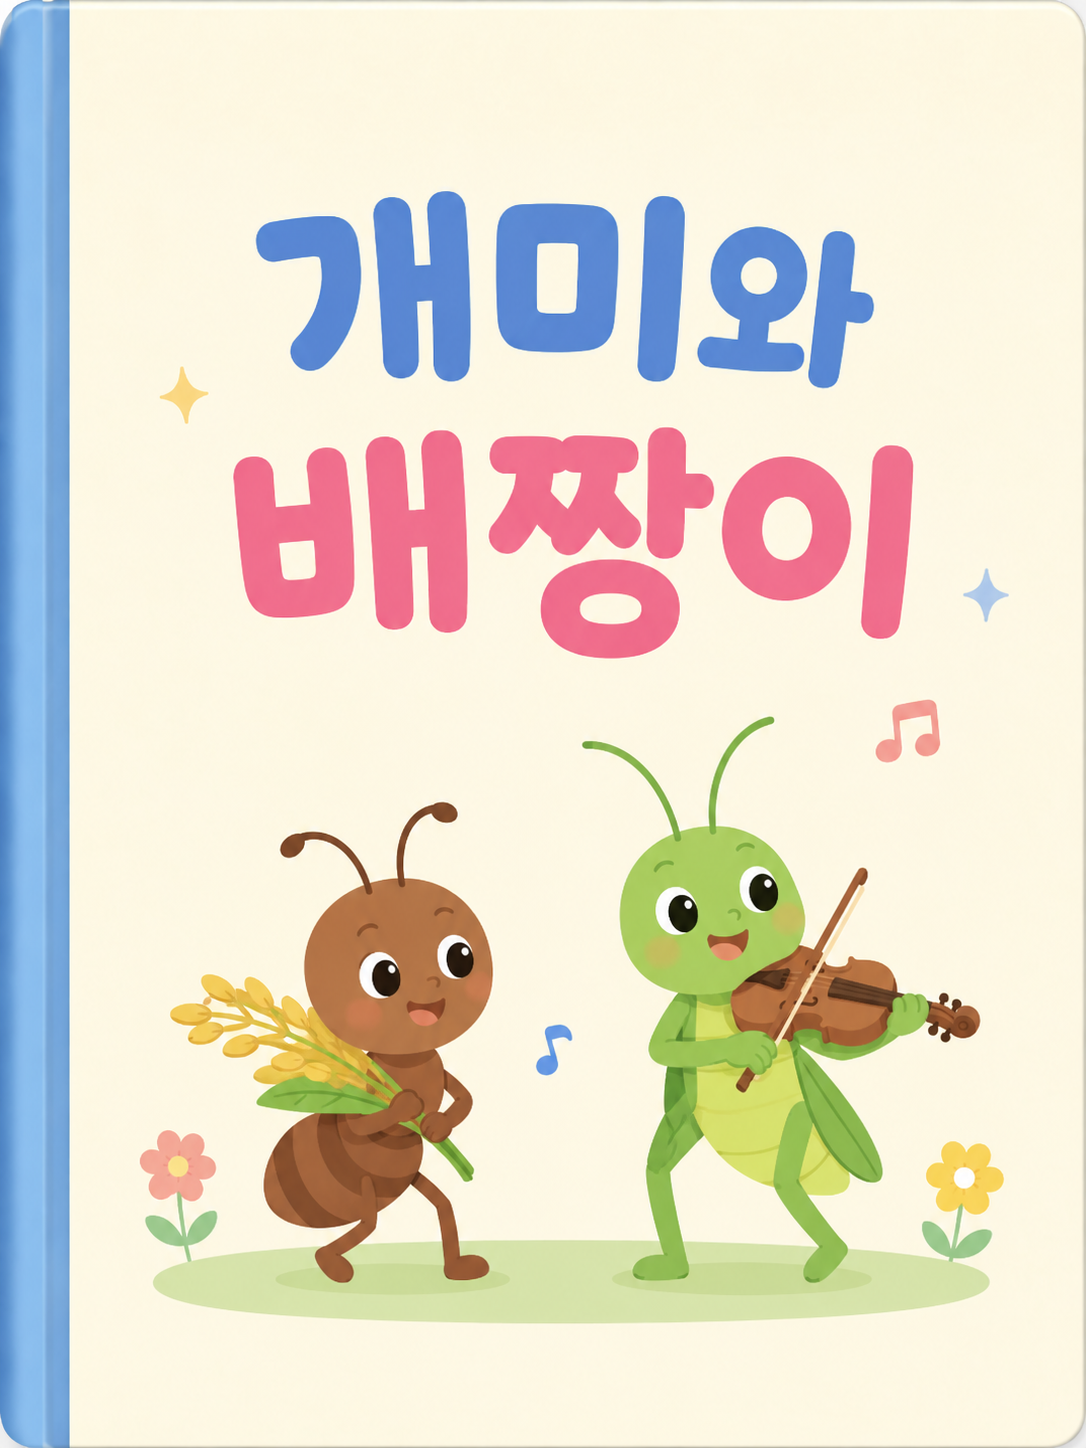
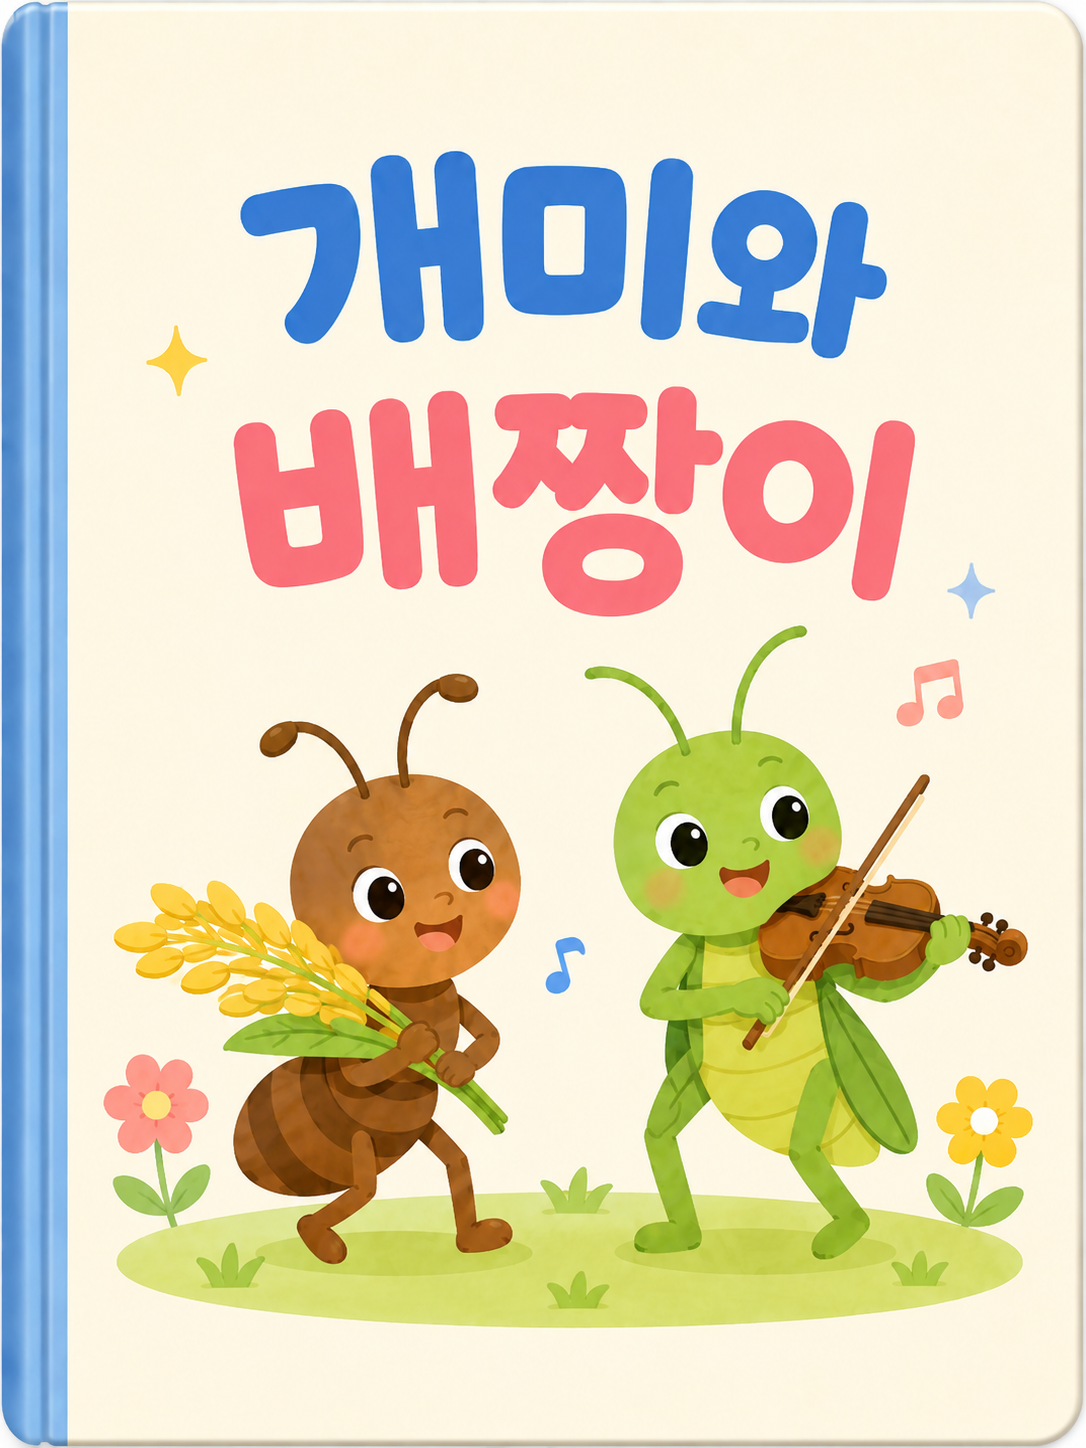
feat(story): 이야기별 책 표지를 적용

diff --git a/src/views/learner/StorySelectionView.vue b/src/views/learner/StorySelectionView.vue
@@ -5,6 +5,12 @@ import storyLandBackground from '../../assets/backgrounds/story-section-backgrou
 import otherBooksIcon from '../../assets/story/ui/other-books-icon.png'
 import newBookIcon from '../../assets/story/ui/new-book-icon.png'
 import continueStoryIcon from '../../assets/story/ui/continue-story-icon.png'
+import antAndGrasshopperCover from '../../assets/story/covers/ant-and-grasshopper.png'
+import byeoljubujeonCover from '../../assets/story/covers/byeoljubujeon.png'
+import cinderellaCover from '../../assets/story/covers/cinderella.png'
+import oldManAndSeaCover from '../../assets/story/covers/old-man-and-sea.png'
+import rabbitAndTurtleCover from '../../assets/story/covers/rabbit-and-turtle.png'
+import threeLittlePigsCover from '../../assets/story/covers/three-little-pigs.png'
 import { fetchStoryLibrary, startStorySession } from '@/services/learnerDataRepository'
 import PageBackButton from '@/components/common/PageBackButton.vue'
 import progressStar from '@/assets/training/ui/progress-star.png'
@@ -36,6 +42,21 @@ const requestError = ref('')
 const openingBookId = ref<string | null>(null)
 const currentPage = ref(1)
 const booksPerPage = 3
+const storyCoverByTitle: Record<string, string> = {
+  별주부전: byeoljubujeonCover,
+  신데렐라: cinderellaCover,
+  '토끼와 거북이': rabbitAndTurtleCover,
+  '개미와 배짱이': antAndGrasshopperCover,
+  '아기돼지 삼형제': threeLittlePigsCover,
+  '노인과 바다': oldManAndSeaCover,
+}
+
+function resolveStoryCover(title: string, fallbackCover: string) {
+  for (const [storyTitle, coverImage] of Object.entries(storyCoverByTitle)) {
+    if (title.includes(storyTitle)) return coverImage
+  }
+  return fallbackCover
+}
 
 onMounted(async () => {
   try {
@@ -47,14 +68,14 @@ onMounted(async () => {
     createdAt: story.createdAt,
     lastReadAt: story.lastReadAt,
     title: story.title,
-    coverImage: story.coverImageUrl,
+    coverImage: resolveStoryCover(story.title, story.coverImageUrl),
     status: story.status,
     progress: story.progress,
     }))
     storyTemplates.value = library.templates.map((template) => ({
     id: template.templateId,
     title: template.title,
-    coverImage: template.coverImageUrl,
+    coverImage: resolveStoryCover(template.title, template.coverImageUrl),
     }))
   } catch {
     requestError.value = '이야기 목록을 불러오지 못했어요. 잠시 후 다시 시도해 주세요.'
@@ -246,16 +267,10 @@ function sessionTitle(book: StorySession) {
                 decoding="async"
               />
               <span
-                class="status-badge"
-                :class="mode === 'new' ? 'status-badge--new' : `status-badge--${(book as StorySession).status.toLowerCase()}`"
+                v-if="mode === 'other' && (book as StorySession).status === 'COMPLETED'"
+                class="status-badge status-badge--completed"
               >
-                {{
-                  mode === 'new'
-                    ? '새 이야기'
-                    : (book as StorySession).status === 'COMPLETED'
-                      ? '완독'
-                      : '읽는 중'
-                }}
+                완독
               </span>
             </span>
             <strong>{{ mode === 'other' ? sessionTitle(book as StorySession) : book.title }}</strong>

diff --git a/src/styles/story/StorySelectionView.css b/src/styles/story/StorySelectionView.css
@@ -536,14 +536,6 @@ button {
   background: #8f63d8;
 }
 
-.status-badge--unread {
-  background: #54b845;
-}
-
-.status-badge--new {
-  background: #54b845;
-}
-
 .book-card > strong {
   overflow: hidden;
   flex: 0 0 auto;
